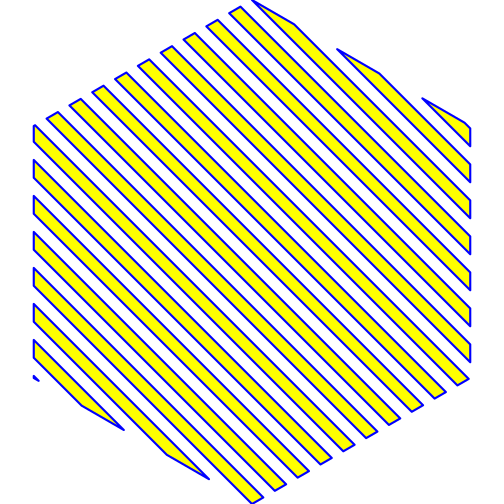
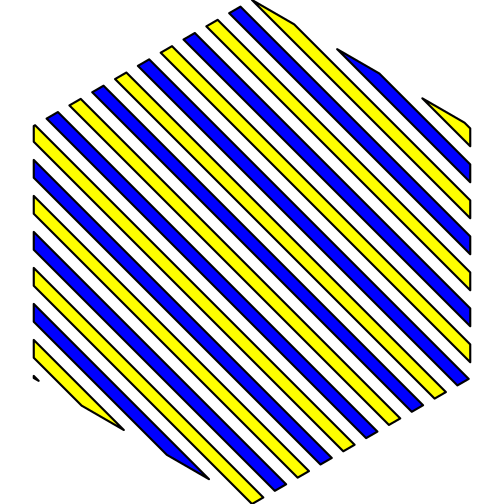
docs: Update package description, README examples
* Use multi-colored 'stripe' and 'crosshatch' patterns
* Add example using the package to create new 'ggpattern' patterns

Changed region(s): [[0.0595, 0.0, 0.9524, 1.0]]

diff --git a/README.md b/README.md
@@ -8,13 +8,14 @@
 `gridpattern` provides [grid.pattern() and
 patternGrob()](http://trevorldavis.com/R/gridpattern/dev/reference/grid.pattern.html)
 functions to use with R's grid graphics system. They fill in a
-specified boundary bath with a pattern. These patterned grobs are
-extracted from [Mike FC](https://github.com/coolbutuseless)'s awesome
-[ggpattern](https://github.com/coolbutuseless/ggpattern) package (which
-provides patterned ggplot2 "geom" functions but 
+user-specified boundary path with a user-specified pattern. These pattern grobs are
+enhanced versions of the patterns originally contained within 
+[Mike FC](https://github.com/coolbutuseless)'s awesome
+[ggpattern](https://github.com/coolbutuseless/ggpattern) package 
+(which provides patterned ``ggplot2`` "geom" functions but 
 [does not provide exported access to the underlying grobs](https://github.com/coolbutuseless/ggpattern/issues/11) themselves).
 
-We currently provide grob support for the following `ggpattern` patterns:
+We currently provide `grid` grob support for the following patterns:
 
 1.  [ambient](https://trevorldavis.com/R/gridpattern/dev/reference/grid.pattern_ambient.html):
     noise array patterns powered by the [ambient](https://cran.r-project.org/package=ambient) package
@@ -27,8 +28,8 @@ We currently provide grob support for the following `ggpattern` patterns:
 8.  [placeholder](https://trevorldavis.com/R/gridpattern/dev/reference/grid.pattern_placeholder.html): placeholder image array patterns
 9.  [plasma](https://trevorldavis.com/R/gridpattern/dev/reference/grid.pattern_plasma.html): plasma array patterns
 10. [stripe](https://trevorldavis.com/R/gridpattern/dev/reference/grid.pattern_stripe.html): stripe geometry patterns
-11. [Custom geometry-based patterns](https://coolbutuseless.github.io/package/ggpattern/articles/developing-patterns-2.html)
-12. [Custom array-based patterns](https://coolbutuseless.github.io/package/ggpattern/articles/developing-patterns-3.html)
+11. [custom ggpattern geometry-based patterns](https://coolbutuseless.github.io/package/ggpattern/articles/developing-patterns-2.html)
+12. [custom ggpattern array-based patterns](https://coolbutuseless.github.io/package/ggpattern/articles/developing-patterns-3.html)
 
 ## Installation
 
@@ -54,32 +55,33 @@ y_hex <- 0.5 + 0.5 * sin(seq(2 * pi / 4, by = 2 * pi / 6, length.out = 6))
 
 
 ```r
-grid.pattern("ambient", x_hex, y_hex, fill = "green", fill2 = "blue")
+grid.pattern("ambient", x_hex, y_hex, fill = "blue", fill2 = "yellow")
 ```
 
 ![](man/figures/README-ambient-1.png)
 
 ```r
-grid.pattern("circle", x_hex, y_hex, colour="blue", fill="yellow", size = 2, density = 0.5)
+grid.pattern("circle", x_hex, y_hex, colour="blue", fill="yellow", density=0.3)
 ```
 
 ![](man/figures/README-circle-1.png)
 
 ```r
-grid.pattern("crosshatch", x_hex, y_hex, colour="blue", fill="yellow", density = 0.5, angle = 135)
+grid.pattern("crosshatch", x_hex, y_hex, colour="black", fill="blue", 
+             fill2 = "yellow", density = 0.5, angle = 135)
 ```
 
 ![](man/figures/README-crosshatch-1.png)
 
 ```r
-grid.pattern("gradient", x_hex, y_hex, fill="blue", fill2="green", orientation="radial")
+grid.pattern("gradient", x_hex, y_hex, fill="blue", fill2="yellow")
 ```
 
 ![](man/figures/README-gradient-1.png)
 
 ```r
 logo_filename   <- system.file("img", "Rlogo.png" , package="png")
-grid.pattern("image", filename=logo_filename, type="tile")
+grid.pattern("image", x_hex, y_hex, filename=logo_filename, type="tile")
 ```
 
 ![](man/figures/README-image-1.png)
@@ -103,7 +105,44 @@ grid.pattern("plasma", x_hex, y_hex, fill="green")
 ![](man/figures/README-plasma-1.png)
 
 ```r
-grid.pattern("stripe", x_hex, y_hex, colour="blue", fill="yellow", density = 0.5, angle = 135)
+grid.pattern("stripe", x_hex, y_hex, colour="black", fill=c("blue", "yellow"),
+             density = 0.5, angle = 135)
 ```
 
 ![](man/figures/README-stripe-1.png)
+
+## Using these patterns with the "ggpattern" package
+
+The patterns provided by ``gridpattern`` can be used to create [custom ggpattern geometry-based patterns](https://coolbutuseless.github.io/package/ggpattern/articles/developing-patterns-2.html).  Here is an example of creating a new  "multicolor_stripe" pattern that supports comma-separated ``pattern_fill`` and/or ``pattern_colour`` aesthetics:
+
+
+```r
+library("ggpattern") # remotes::install_github("coolbutuseless/ggpattern")
+library("ggplot2", warn.conflicts = FALSE)
+library("gridpattern")
+
+multicolor_stripe_pattern <- function(params, boundary_df, aspect_ratio, legend) {
+    args <- as.list(params)
+    args <- args[grep("^pattern_", names(args))]
+
+    args$pattern_colour <- strsplit(args$pattern_colour, ",")[[1]]
+    args$pattern_fill <- strsplit(args$pattern_fill, ",")[[1]]
+
+    args$pattern <- "stripe"
+    args$x <- boundary_df$x
+    args$y <- boundary_df$y
+    args$id <- boundary_df$id
+    args$prefix <- ""
+
+    do.call(gridpattern::patternGrob, args)
+}
+
+options(ggpattern_geometry_funcs = list(multicolor_stripe = multicolor_stripe_pattern))
+df <- data.frame(trt = c("a", "b", "c"), outcome = c(2.3, 1.9, 3.2))
+ggplot(df, aes(trt, outcome)) +
+    geom_col_pattern(aes(fill = trt), colour = 'black', 
+                     pattern = 'multicolor_stripe',
+                     pattern_fill = "grey30,grey70,white,grey70")
+```
+
+![](man/figures/README-ggpattern-1.png)

diff --git a/NEWS.md b/NEWS.md
@@ -2,10 +2,10 @@ gridpattern v0.1
 ================
 
 * ``grid.pattern()`` draws a specified "pattern" to the active graphics device.
-* ``patternGrob()`` returns a "pattern" (grid) grob.
-* Initial support for the following patterns from [ggpattern](https://github.com/coolbutuseless/ggpattern):
+  while ``patternGrob()`` returns a "pattern" (grid) grob.
+* Supports  the following patterns from [ggpattern](https://github.com/coolbutuseless/ggpattern):
 
-  * "ambient" ``grid.pattern_ambient()``
+  * "ambient" ``grid.pattern_ambient()``  
   * "circle" ``grid.pattern_circle()`` (#5)
   * "crosshatch"  ``grid.pattern_crosshatch()``(#4)
   * "gradient"  ``grid.pattern_gradient()``(#8)
@@ -15,5 +15,13 @@ gridpattern v0.1
   * "placeholder" ``grid.pattern_placeholder()`` (#10)
   * "plasma" ``grid.pattern_plasma()`` (#7)
   * "stripe" ``grid.pattern_stripe()`` (#3)
-  * [Custom geometry-based patterns](https://coolbutuseless.github.io/package/ggpattern/articles/developing-patterns-2.html) (#1)
-  * [Custom array-based patterns](https://coolbutuseless.github.io/package/ggpattern/articles/developing-patterns-3.html) (#2)
+  * [Custom ggpattern geometry-based patterns](https://coolbutuseless.github.io/package/ggpattern/articles/developing-patterns-2.html) (#1)
+  * [Custom ggpattern array-based patterns](https://coolbutuseless.github.io/package/ggpattern/articles/developing-patterns-3.html) (#2)
+
+  Pattern enhancements provided by this package:
+
+    * Resolution of "array" patterns is now user-supplied.
+      Defaults to 72 DPI but with a minimum of 12 pixel image width and/or height.
+    * ``grid.pattern_ambient()`` pattern supports all arguments of the six [ambient](https://cran.r-project.org/package=ambient) "noise" functions plus a "seed" argument to make them reproducible (for an identical image resolution).
+    * ``grid.pattern_crosshatch()`` allows using the argument ``fill2`` to set 
+       different fill color(s) for the "over" crosshatch lines (#14).
